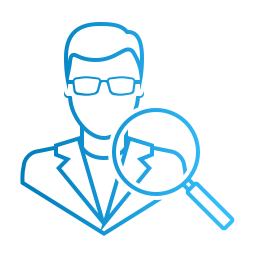
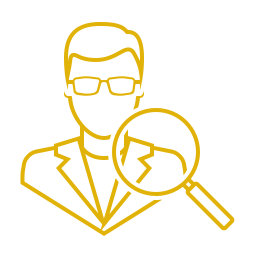
v2

Changed region(s): [[0.0625, 0.0625, 0.9375, 0.9375]]

diff --git a/index.html b/index.html
@@ -126,6 +126,30 @@
                 <p class="m-0">Farans is a blockchain company providing solutions and consultancies to companies like yours. We have a team of professional developers working to secure your smart contracts, developing efficient smart contracts and helping companies and startups to convert their imaginations to reality - <span class="font-weight-bold text-primary text-uppercase">Welcome</span></p>
             </div>
         </div>
+
+        <h5 class="text-uppercase pt-5 pb-4 mt-5 mb-4 text-center animate-box left-in">Blockchains we work on</h5>
+        <div class="owl-carousel owl-theme blockchain-owl text-center">
+            <div class="item">
+                <img src="images/eth.png" alt="Ethereum">
+                <h5 class="mt-2">Ethereum</h5>
+            </div>
+            <div class="item">
+                <img src="images/Solana_logo.png" alt="Solana">
+                <h5 class="mt-2">Solana</h5>
+            </div>
+            <div class="item">
+                <img src="images/dogechain.png" alt="Doge chain">
+                <h5 class="mt-2">Doge chain</h5>
+            </div>
+            <div class="item">
+                <img src="images/Bitcoin.svg.png" alt="Bitcoin">
+                <h5 class="mt-2">Bitcoin</h5>
+            </div>
+            <div class="item">
+                <img src="images/polygon-matic-logo.png" alt="Polygon">
+                <h5 class="mt-2">Polygon</h5>
+            </div>
+        </div>
     </div>
 </section>
 
@@ -222,19 +246,10 @@
 
         <div class="owl-carousel owl-theme">
             <div class="item">
-                <a href="#" title="Company Name" class="d-block"><img src="images/logo-1.png" alt="Company Name"></a>
+                <a href="#" title="Joltee" class="d-block"><img src="images/joltee.png" alt="Joltee"></a>
             </div>
             <div class="item">
-                <a href="#" title="Company Name" class="d-block"><img src="images/logo-2.png" alt="Company Name"></a>
-            </div>
-            <div class="item">
-                <a href="#" title="Company Name" class="d-block"><img src="images/logo-3.png" alt="Company Name"></a>
-            </div>
-            <div class="item">
-                <a href="#" title="Company Name" class="d-block"><img src="images/logo-4.png" alt="Company Name"></a>
-            </div>
-            <div class="item">
-                <a href="#" title="Company Name" class="d-block"><img src="images/logo-5.png" alt="Company Name"></a>
+                <a href="#" title="Hadrian Advisors" class="d-block"><img src="images/hadrian.png" alt="Hadrian Advisors"></a>
             </div>
         </div>
     </div>
@@ -257,25 +272,25 @@
                         <div class="shadow-card px-3">
                             <div class="card-body">
                                 <div class="row py-3">
-                                    <div class="col-12 col-sm-6">
-                                        <h4 class="text-black m-0"><i class="fa fa-user mr-2 small text-primary"></i> User Name</h4>
-                                        <p class="text-black-50"><i class="fa fa-id-card mr-2 small text-primary"></i> Lorem ipsum</p>
+                                    <div class="col-12 col-sm-7">
+                                        <h5 class="text-black m-0"><i class="fa fa-user mr-2 small text-primary"></i> Cédric MAVOUNGOU</h5>
+                                        <p class="text-black-50"><i class="fa fa-id-card mr-2 small text-primary"></i> CEO</p>
                                     </div>
-                                    <div class="col-12 col-sm-6 text-sm-right">
+                                    <div class="col-12 col-sm-5 text-sm-right">
                                         <p class="text-black-50 m-0">
                                             <i class="fa fa-building mr-2 small text-primary d-sm-none"></i>
-                                            Company Name 
+                                            Joltee
                                             <i class="fa fa-building ml-2 small text-primary d-none d-sm-inline-block"></i>
                                         </p>
                                         <p class="text-black-50">
                                             <i class="fa fa-map-marker-alt mr-2 small text-primary d-sm-none"></i>
-                                            Location 
+                                            Paris, France 
                                             <i class="fa fa-map-marker-alt ml-2 small text-primary d-none d-sm-inline-block"></i>
                                         </p>
                                     </div>
                                 </div>
 
-                                <p class="text-dark">Lorem ipsum dolor sit amet consectetur adipisicing elit. Commodi voluptate repellat a nostrum deleniti dolorum dolorem reprehenderit? Error nam voluptas, minus aperiam omnis blanditiis nemo consectetur qui mollitia quidem provident.</p>
+                                <p class="text-dark">Lorem ipsum....</p>
                             </div>
                         </div>
                     </div>
@@ -284,25 +299,25 @@
                         <div class="shadow-card px-3">
                             <div class="card-body">
                                 <div class="row py-3">
-                                    <div class="col-12 col-sm-6">
-                                        <h4 class="text-black m-0"><i class="fa fa-user mr-2 small text-primary"></i> User Name</h4>
-                                        <p class="text-black-50"><i class="fa fa-id-card mr-2 small text-primary"></i> Lorem ipsum</p>
+                                    <div class="col-12 col-sm-7">
+                                        <h5 class="text-black m-0"><i class="fa fa-user mr-2 small text-primary"></i> Xavier De Bernede</h5>
+                                        <p class="text-black-50"><i class="fa fa-id-card mr-2 small text-primary"></i> CEO</p>
                                     </div>
-                                    <div class="col-12 col-sm-6 text-sm-right">
+                                    <div class="col-12 col-sm-5 text-sm-right">
                                         <p class="text-black-50 m-0">
                                             <i class="fa fa-building mr-2 small text-primary d-sm-none"></i>
-                                            Company Name 
+                                            Hadrian Advisors
                                             <i class="fa fa-building ml-2 small text-primary d-none d-sm-inline-block"></i>
                                         </p>
                                         <p class="text-black-50">
                                             <i class="fa fa-map-marker-alt mr-2 small text-primary d-sm-none"></i>
-                                            Location 
+                                            Paris, France 
                                             <i class="fa fa-map-marker-alt ml-2 small text-primary d-none d-sm-inline-block"></i>
                                         </p>
                                     </div>
                                 </div>
 
-                                <p class="text-dark">Lorem ipsum dolor sit amet consectetur adipisicing elit. Commodi voluptate repellat a nostrum deleniti dolorum dolorem reprehenderit? Error nam voluptas, minus aperiam omnis blanditiis nemo consectetur qui mollitia quidem provident.</p>
+                                <p class="text-dark">xyz...</p>
                             </div>
                         </div>
                     </div>

diff --git a/css/style.css b/css/style.css
@@ -77,11 +77,11 @@ li {
 }
 
 a {
-    color: #03A9F4;
+    color: #E1B207;
 }
 
 a:hover, a:focus {
-    color: #2196F3;
+    color: #E1B207;
 }
 
 a, a:hover, a:focus, button, label {
@@ -109,7 +109,7 @@ label {
 }
 
 ::-webkit-scrollbar-thumb {
-    background-color: #03A9F4;
+    background-color: #E1B207;
 }
 
 ::-webkit-input-placeholder, .form-control::-webkit-input-placeholder {
@@ -185,8 +185,8 @@ a, input, select, textarea, button, .navbar-collapse, .nav-link:after, .navbar, 
 .btn-outline-primary:focus,
 .btn-primary:hover,
 .btn-primary:not(:disabled):not(.disabled):active {
-    color: #017ebc !important;
-    border-image: linear-gradient(to right, #017ebc 0%, #37befc 100%) 1;
+    color: #E1B207 !important;
+    border-image: linear-gradient(to right, #E1B207 0%, #E1B207 100%) 1;
     background: transparent;
 }
 
@@ -202,8 +202,8 @@ a, input, select, textarea, button, .navbar-collapse, .nav-link:after, .navbar, 
 .btn-primary.disabled,
 .btn-primary:disabled {
     color: #fff !important;
-    border-image: linear-gradient(to right, #017ebc 0%, #37befc 100%) 1;
-    background: linear-gradient(to right, #017ebc 0%, #37befc 100%);
+    border-image: linear-gradient(to right, #E1B207 0%, #E1B207 100%) 1;
+    background: linear-gradient(to right, #E1B207 0%, #E1B207 100%);
 }
 
 .btn.disabled,
@@ -221,15 +221,16 @@ a, input, select, textarea, button, .navbar-collapse, .nav-link:after, .navbar, 
 }
 
 .bg-dark {
-    background: #212121 !important;
+    background: #dcdfdf !important;
+    color: #212121 !important
 }
 
 .bg-darker {
-    background: #111 !important;
+    background: #07162b !important;
 }
 
 .text-primary {
-    color: #03A9F4 !important;
+    color: #E1B207 !important;
 }
 
 .text-white-50, p.text-white-50 {
@@ -267,7 +268,7 @@ a, input, select, textarea, button, .navbar-collapse, .nav-link:after, .navbar, 
 
 .lds-ripple div {
     position: absolute;
-    border: 4px solid #03A9F4;
+    border: 4px solid #E1B207;
     opacity: 1;
     border-radius: 50%;
     animation: lds-ripple 1.4s cubic-bezier(0, 0.2, 0.8, 1) infinite;
@@ -506,7 +507,7 @@ a, input, select, textarea, button, .navbar-collapse, .nav-link:after, .navbar, 
 }
 
 .dropdown-item.active, .dropdown-item:active {
-    background: #37befc
+    background: #E1B207
 }
 
 /*--------------------------------------
@@ -515,7 +516,7 @@ a, input, select, textarea, button, .navbar-collapse, .nav-link:after, .navbar, 
 
 header {
     /* background: #212121; */
-    background: linear-gradient(to right, #017ebc 0%, #37befc 100%);
+    background: linear-gradient(to right, #0B1E39 0%, #07162b 100%);
     color: #fff;
 }
 
@@ -546,7 +547,7 @@ header .container-sm {
 header:after {
     content: '';
     position: absolute;
-    bottom: 0;
+    bottom: -1px;
     left: 0;
     height: 100%;
     width: 100%;
@@ -574,7 +575,7 @@ header:after {
     width: 40%;
     height: 3px;
     margin: 15px 0;
-    background: linear-gradient(to right, #017ebc 0%, #37befc 100%);
+    background: linear-gradient(to right, #E1B207 0%, #E1B207 100%);
 }
 
 .text-center .main-heading:after {
@@ -583,6 +584,16 @@ header:after {
 
 .img-full {
     width: 100%;
+}
+
+.blockchain-owl.owl-carousel .owl-item img {
+    width: 40px;
+    margin-right: 15px;
+}
+
+.blockchain-owl h5, .blockchain-owl.owl-carousel .owl-item img {
+    display: inline-block;
+    vertical-align: middle;
 }
 
 /*--------------------------------------
@@ -597,8 +608,12 @@ header:after {
 }
 
 .bg-dark .card {
-    background: #111;
-    border-color: #333
+    background: #dcdfdf;
+    border-color: #b5c1c1;
+}
+
+.bg-dark .card p {
+    color: #212121
 }
 
 .shadow-card {
@@ -616,7 +631,7 @@ header:after {
 
 .card:hover {
     top: -10px;
-    border-image: linear-gradient(to right, #017ebc 0%, #37befc 100%) 1;
+    border-image: linear-gradient(to right, #E1B207 0%, #E1B207 100%) 1;
 }
 
 .services .card h3 {
@@ -692,7 +707,7 @@ header:after {
     width: 50px;
     height: 50px;
     line-height: 45px;
-    background: #111;
+    background: #07162b;
     border: 4px solid #333;
 }
 
@@ -766,7 +781,7 @@ header:after {
 }
 
 .owl-dots .active span {
-    background: linear-gradient(to right, #017ebc 0%, #37befc 100%);
+    background: #E1B207
 }
 
 /*--------------------------------------
@@ -782,7 +797,7 @@ header:after {
 }
 
 .faq-head.active {
-    color: #03A9F4;
+    color: #E1B207;
 }
 
 .faq-head.active i:before {
@@ -801,7 +816,7 @@ header:after {
     width: 100%;
     height: 70%;
     z-index: 1;
-    background: linear-gradient(to right, #017ebc 0%, #37befc 100%);
+    background: linear-gradient(to right, #0B1E39 0%, #07162b 100%);
 }
 
 .contact-section::after {
@@ -824,7 +839,7 @@ header:after {
     border-radius: 0;
     height: auto;
     border-width: 3px;
-    border-image: linear-gradient(to right, #017ebc 0%, #37befc 100%) 1;
+    border-image: linear-gradient(to right, #0f2b52 0%, #07162b 100%) 1;
 }
 
 /*--------------------------------------
@@ -841,7 +856,7 @@ header:after {
     top: 0;
     font-size: 17px;
     border-radius: 50%;
-    background: linear-gradient(to right, #017ebc 0%, #37befc 100%);
+    background: #E1B207;
 }
 
 .social-links li a img {
@@ -862,7 +877,7 @@ header:after {
     line-height: 40px;
     border-radius: 50%;
     color: #fff !important;
-    background: linear-gradient(to right, #017ebc 0%, #37befc 100%);
+    background: #E1B207;
     box-shadow: 0 1px 7px 0 rgba(0, 0, 0, 0.5);
     z-index: 10000;
 }
@@ -1039,7 +1054,7 @@ header:after {
     }
 
     .navbar.scrolled .nav-link:after {
-        background: #212121;
+        background: #E1B207;
     }
 
     .nav-link:hover:after, .nav-link.active:after, .dropdown.show .nav-link:after {

diff --git a/js/script.js b/js/script.js
@@ -7,6 +7,38 @@ $(window).on('load', function() {
     });
 
 
+    let blockchainSlider = $('.blockchain-owl.owl-carousel');
+    if(blockchainSlider.length) {
+        blockchainSlider.owlCarousel({
+            responsive:{
+                0:{
+                    items:1,
+                    dots: true
+                },
+                576:{
+                    items:2,
+                    dots: true
+                },
+                768:{
+                    items:3,
+                    dots: true
+                },
+                992:{
+                    items:4,
+                    dots: true
+                },
+                1200:{
+                    items:5,
+                    dots: false
+                }
+            },
+            margin: 30,
+            nav: false,
+            loop: false,
+            center: false
+        });
+    }
+
     let projectsSlider = $('.projects-owl .owl-carousel');
     if(projectsSlider.length) {
         projectsSlider.owlCarousel({
@@ -54,7 +86,7 @@ $(window).on('load', function() {
             },
             margin: 30,
             nav: false,
-            loop: true,
+            loop: false,
             dots: true,
             center: true,
             autoplay: true,
